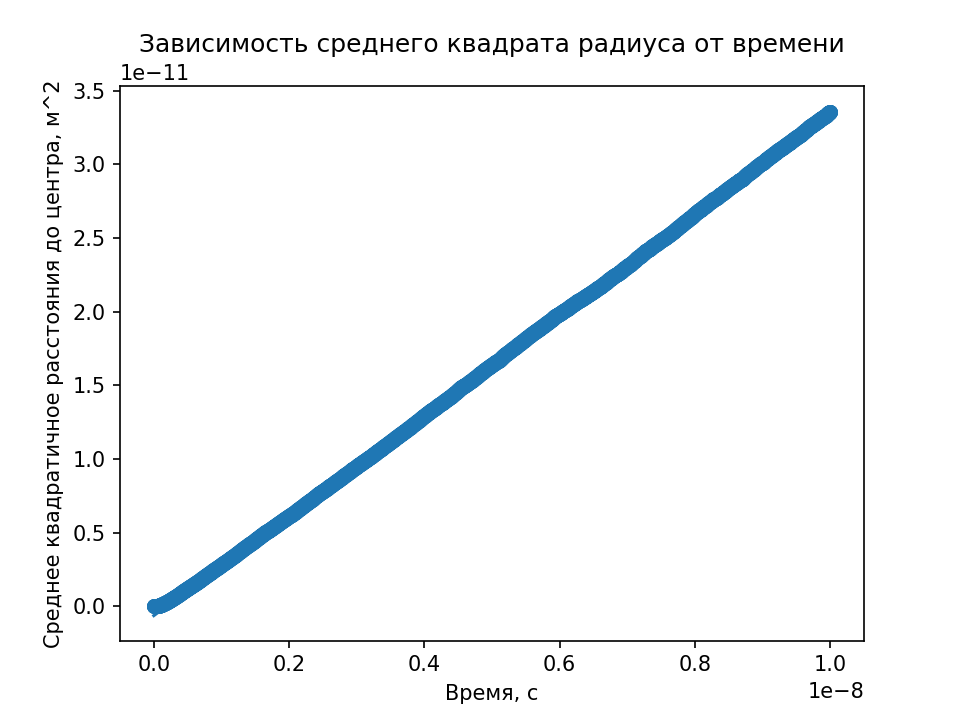
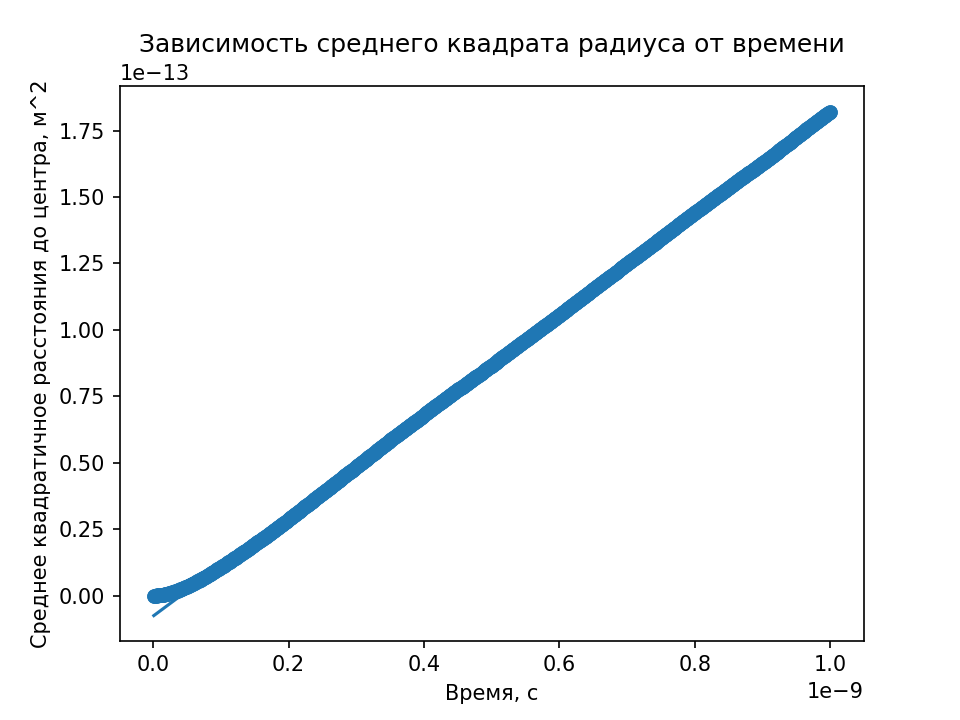
Исправил физику столкновений

diff --git a/analytic/analytic.py b/analytic/analytic.py
@@ -12,8 +12,8 @@ plt.title("Зависимость среднего квадрата радиус
 plt.xlabel("Время, с")
 plt.ylabel("Среднее квадратичное расстояния до центра, м^2")
 
-coeffs = np.polyfit(t, R, deg=1)
-print(f"D = {coeffs[0] / 6} м^2 / c")
+coeffs, cov = np.polyfit(t, R, deg=1, cov=True)
+print(f"D = {coeffs[0] / 6} м^2 / c, {cov[0][0] ** 0.5}")
 
 x = np.linspace(t[0], t[-1], 100)
 y = np.polyval(coeffs, x)
